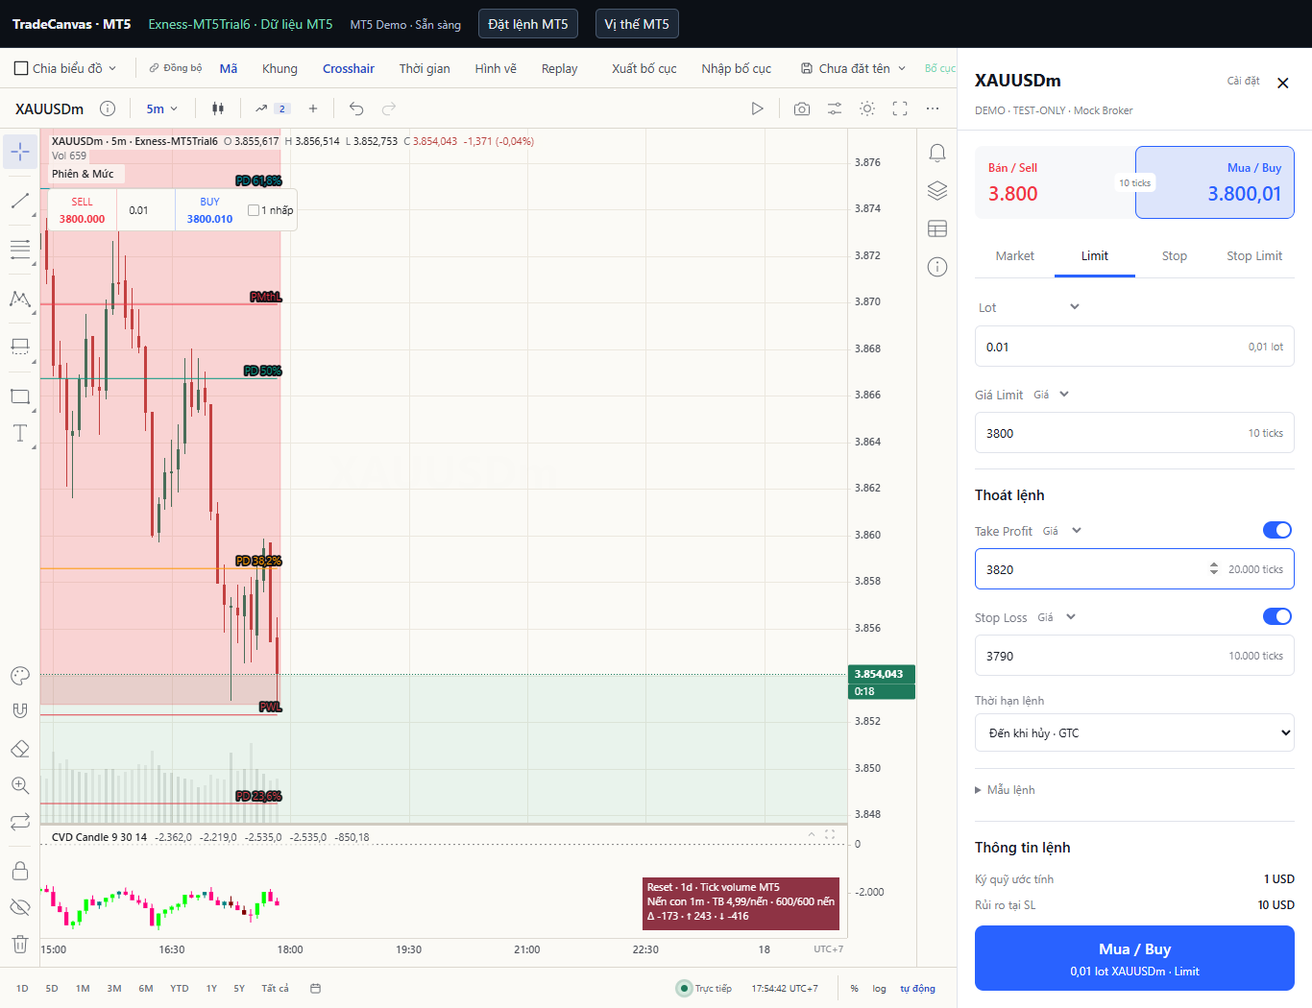
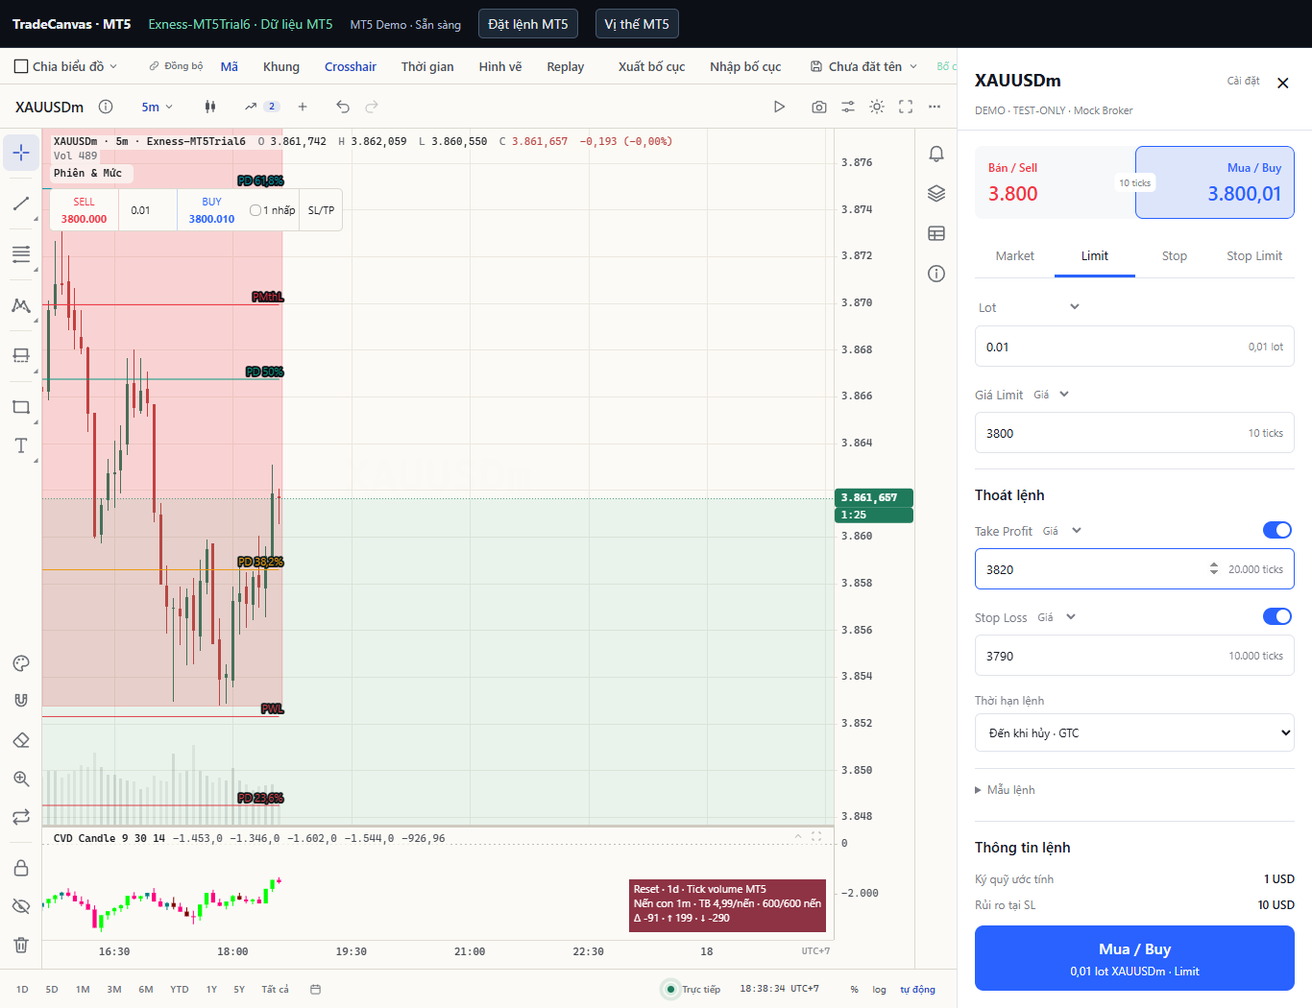
fix: persist MT5 stop edits and preserve chart tool gestures

diff --git a/examples/mt5/mt5-trading.js b/examples/mt5/mt5-trading.js
@@ -34,8 +34,14 @@ export function createMt5Trading(getActiveWidget) {
   let state = null, timer, refreshing = null, busy = false, reviewOpen = false;
   let connected = false, message = '', armed = false, armedAccount = '', projection = null, syncingDrawing = false;
   const quickLots = new Map();
+  const bracketModes = new WeakMap();
   const adapters = new Set();
   const badge = element('span', 'MT5: đang kết nối…', { id: 'mt5-trading-status', role: 'status' });
+  const failure = element('div', null, { id: 'mt5-trading-error', role: 'alert' });
+  const failureText = element('span');
+  failure.hidden = true;
+  failure.append(failureText, button('Đóng', () => { failure.hidden = true; }));
+  document.querySelector('header').append(failure);
   const accountPanel = dialog('Tài khoản và lệnh MT5', false);
   accountPanel.id = 'mt5-account';
   const summary = element('p');
@@ -94,6 +100,9 @@ export function createMt5Trading(getActiveWidget) {
   function report(error) {
     message = error?.message || String(error);
     badge.textContent = `MT5: ${message}`;
+    // Quote polling must not erase a rejected edit before the user sees it.
+    failureText.textContent = message;
+    failure.hidden = false;
     render();
   }
 
@@ -102,7 +111,8 @@ export function createMt5Trading(getActiveWidget) {
     render();
   }
 
-  async function refresh() {
+  async function refresh(fresh = false) {
+    if (fresh && refreshing) await refreshing;
     if (refreshing) return refreshing;
     if (!key) return;
     refreshing = (async () => {
@@ -219,7 +229,8 @@ export function createMt5Trading(getActiveWidget) {
     if (!quote || !connected) { report(new Error('Chưa có dữ liệu giao dịch cho mã này.')); return; }
     if (!ticket.open(owner, { quantity: quickLots.get(symbol) || quote.min, ...initial })) return;
     projection?.destroy();
-    projection = orderProjection(owner, ticket.read, (field, value) => ticket.change(field, value, 'projection'), ticket.submit, ticket.close);
+    projection = orderProjection(owner, ticket.read, (field, value) => ticket.change(field, value, 'projection'), ticket.submit, ticket.close,
+      () => bracketModes.get(owner)?.active);
   }
 
   function editPosition(row) {
@@ -267,7 +278,7 @@ export function createMt5Trading(getActiveWidget) {
         await api('check', command);
         const result = await api('execute', command);
         message = result.partial ? 'MT5 khớp một phần. Kiểm tra khối lượng còn lại.' : 'MT5 đã tiếp nhận thao tác.';
-        await refresh(); return result;
+        await refresh(true); return result;
       } catch (error) {
         message = `${error.message} Kiểm tra Vị thế MT5 trước khi tạo yêu cầu mới.`;
         throw new Error(message);
@@ -299,7 +310,7 @@ export function createMt5Trading(getActiveWidget) {
         try {
           result = await api('execute', command);
           message = result.partial ? 'MT5 khớp một phần. Kiểm tra khối lượng còn lại trong Vị thế MT5.' : 'MT5 đã tiếp nhận thao tác.';
-          await refresh();
+          await refresh(true);
           modal.close();
         } catch (error) {
           // Never replay an execute call automatically: the terminal may already have accepted it.
@@ -320,6 +331,8 @@ export function createMt5Trading(getActiveWidget) {
     const listeners = new Map();
     let disposed = false;
     const chart = widget.getChart();
+    const mode = { active: false, account: state?.account.id, symbol: widget.getSymbol() };
+    bracketModes.set(widget, mode);
     const bar = element('div', null, { class: 'mt5-quick-trade', 'aria-label': 'Giao dịch nhanh MT5' });
     const quickSell = button('', () => quickMarket('sell'));
     const quickBuy = button('', () => quickMarket('buy'));
@@ -329,7 +342,18 @@ export function createMt5Trading(getActiveWidget) {
     const armedLabel = element('label', '1 nhấp');
     const armedInput = element('input', null, { type: 'checkbox', 'aria-label': 'One-click trading trên chart' });
     armedInput.addEventListener('change', () => setOneClick(armedInput.checked));
-    armedLabel.prepend(armedInput); bar.append(quickSell, lots, quickBuy, armedLabel);
+    const bracketButton = button('SL/TP', () => setBracketMode(!mode.active));
+    bracketButton.className = 'mt5-bracket-mode';
+    bracketButton.setAttribute('aria-label', 'Kéo SL/TP từ Entry');
+    bracketButton.title = 'Bật: kéo từ Entry để đặt/đổi SL hoặc TP. Tắt: kéo Entry dời cả bộ. Esc để tắt.';
+    const toolActive = () => Boolean(chart.getDrawingTool() || chart.isEraserMode() || chart.isZoomAreaMode());
+    function setBracketMode(value) { mode.active = value && !toolActive(); bracketButton.setAttribute('aria-pressed', String(mode.active)); }
+    function resetBracketMode() { setBracketMode(false); bracketButton.disabled = toolActive(); }
+    function escapeBracketMode(event) { if (event.key === 'Escape') resetBracketMode(); }
+    chart.on('drawingToolChange', resetBracketMode); chart.on('toolModeChange', resetBracketMode);
+    window.addEventListener('keydown', escapeBracketMode);
+    resetBracketMode();
+    armedLabel.prepend(armedInput); bar.append(quickSell, lots, quickBuy, armedLabel, bracketButton);
     widget.chartContainer.append(bar);
     const pendingStops = pendingStopHandles(widget, () => ({ orders: state?.orders.filter(row => row.symbol === widget.getSymbol()) || [],
       positions: state?.positions.filter(row => row.symbol === widget.getSymbol()) || [],
@@ -345,7 +369,7 @@ export function createMt5Trading(getActiveWidget) {
         if (row.takeProfit != null) intent.takeProfit = moved.takeProfit;
       } else intent[field] = moved[field];
       return review('modifyOrder', intent, row.symbol, accountId).catch(report);
-    }, () => busy || reviewOpen, activate);
+    }, () => busy || reviewOpen, activate, () => mode.active);
     lots.addEventListener('input', () => {
       const symbol = widget.getSymbol(); quickLots.set(symbol, Number(lots.value));
       try { sessionStorage.setItem(`mt5:quick-lots:${state?.account.id}:${symbol}`, lots.value); } catch { /* Keep the visible value. */ }
@@ -376,6 +400,9 @@ export function createMt5Trading(getActiveWidget) {
       publish() {
         if (disposed) return;
         const symbol = adapter.symbol(), q = state?.quotes[symbol];
+        if (mode.account !== state?.account.id || mode.symbol !== symbol) {
+          mode.account = state?.account.id; mode.symbol = symbol; resetBracketMode();
+        }
         if (q) {
           if (!quickLots.has(symbol)) {
             const saved = Number(sessionStorage.getItem(`mt5:quick-lots:${state.account.id}:${symbol}`));
@@ -415,6 +442,17 @@ export function createMt5Trading(getActiveWidget) {
     };
     chart.setTradingConfig({ positionLabel: '{side} {qty} lot · {entry}', lineButtons: { reverse: false, trailStop: false } });
     chart.connectExecution(adapter);
+    // The native trading handler precedes drawing placement in 2.x. Let the
+    // existing tool own this press, then restore trading before the next paint.
+    // Listen to mousedown too: the chart's mouse handler follows pointerdown.
+    function preserveToolPress(event) {
+      if (event.button != null && event.button !== 0) return;
+      if (!toolActive() && !event.shiftKey && !event.ctrlKey && !event.metaKey && !event.altKey) return;
+      chart.setTradingConfig({ enabled: false });
+      setTimeout(() => { if (!disposed) chart.setTradingConfig({ enabled: true }); }, 0);
+    }
+    widget.chartContainer.addEventListener('mousedown', preserveToolPress, true);
+    widget.chartContainer.addEventListener('touchstart', preserveToolPress, true);
     const onError = event => report(event.payload?.cause || event.payload?.message || 'Lỗi giao dịch MT5.');
     chart.on('executionError', onError);
     const drawingUpdate = event => {
@@ -430,6 +468,10 @@ export function createMt5Trading(getActiveWidget) {
     return () => {
       if (ticket.read().widget === widget) ticket.close(true);
       chart.off('executionError', onError); chart.off('drawingUpdate', drawingUpdate); chart.off('drawingRemove', drawingRemove); chart.off('resize', positionBar);
+      chart.off('drawingToolChange', resetBracketMode); chart.off('toolModeChange', resetBracketMode);
+      window.removeEventListener('keydown', escapeBracketMode); bracketModes.delete(widget);
+      widget.chartContainer.removeEventListener('mousedown', preserveToolPress, true);
+      widget.chartContainer.removeEventListener('touchstart', preserveToolPress, true);
       pendingStops.destroy(); bar.remove(); chart.disconnectExecution();
     };
   }

diff --git a/examples/mt5/order-gestures.js b/examples/mt5/order-gestures.js
@@ -9,6 +9,8 @@ export function tradeGestures(widget, options) {
   const controls = new Map();
   let frame, timer, stopped = false, drag = null;
   const names = { price: 'Entry', stopPrice: 'Stop', stopLoss: 'SL', takeProfit: 'TP' };
+  const toolActive = () => Boolean(chart.getDrawingTool() || chart.isEraserMode() || chart.isZoomAreaMode());
+  const reserved = event => event.shiftKey || event.ctrlKey || event.metaKey || event.altKey || toolActive();
   function geometry(event, quote) {
     const bounds = host.getBoundingClientRect(), viewport = chart.viewport.getState(), rect = viewport.chartRect;
     const x = event.clientX - bounds.left, y = event.clientY - bounds.top;
@@ -16,7 +18,7 @@ export function tradeGestures(widget, options) {
       price: roundPrice(yToPrice(Math.max(rect.y, Math.min(rect.y + rect.height, y)), viewport), quote) };
   }
   function begin(event, target, field) {
-    if (event.button !== 0) return;
+    if (event.button !== 0 || reserved(event)) return;
     event.preventDefault(); event.stopImmediatePropagation();
     if (options.disabled?.() || drag) return;
     options.activate?.();
@@ -25,13 +27,13 @@ export function tradeGestures(widget, options) {
     if (document.activeElement instanceof HTMLElement) document.activeElement.blur();
     const current = options.read();
     drag = { target: { ...target, row: { ...target.row } }, field,
-      bracket: field === 'price' && event.shiftKey, pointer: event.pointerId,
+      bracket: field === 'price' && options.bracketMode?.(), pointer: event.pointerId,
       account: current.accountId, quote: current.quote, entry: target.row.price ?? target.row.entryPrice,
       price: target.row[field] ?? target.row.entryPrice, startY: event.clientY, moved: false, finished: false };
     host.setPointerCapture(event.pointerId);
   }
   function down(event) {
-    if (event.button !== 0 || event.ctrlKey || event.metaKey || event.altKey || !host.contains(event.target)) return;
+    if (event.button !== 0 || reserved(event) || !host.contains(event.target)) return;
     const owned = [...controls.values()].find(value => value.tag === event.target || value.tag.contains(event.target));
     if (owned) { begin(event, owned.target, owned.field); return; }
     if (event.target.closest('button,input,select,textarea')) return;
@@ -39,7 +41,7 @@ export function tradeGestures(widget, options) {
     const point = geometry(event, current.quote); if (!point.inside) return;
     if (!options.draft && current.blockedPrices?.some(price => price > 0 && Math.abs(priceToY(price, point.viewport) - point.y) <= 7)) return;
     const hit = current.targets.flatMap(target => {
-      const fields = [...(target.canMoveEntry || event.shiftKey ? ['price'] : []),
+      const fields = [...(target.canMoveEntry || options.bracketMode?.() ? ['price'] : []),
         ...(target.row.type === 'stopLimit' ? ['stopPrice'] : []), 'stopLoss', 'takeProfit'];
       return fields.flatMap(field => {
         const price = field === 'price' ? target.row.price ?? target.row.entryPrice : target.row[field];
@@ -114,7 +116,7 @@ export function tradeGestures(widget, options) {
     if (!current.targets.length && !controls.size && !options.draft) { layer.hidden = true; timer = setTimeout(render, 100); return; }
     const viewport = chart.viewport.getState(), rect = viewport.chartRect;
     Object.assign(layer.style, { left: `${rect.x}px`, top: `${rect.y}px`, width: `${rect.width}px`, height: `${rect.height}px` });
-    layer.hidden = !current.quote;
+    layer.hidden = !current.quote || toolActive();
     const proposed = preview(), keys = new Set();
     if (proposed && drag.target.kind !== 'draft') options.preview?.(drag.target, proposed.row);
     if (current.quote) for (const target of current.targets) {

diff --git a/examples/mt5/order-ticket.css b/examples/mt5/order-ticket.css
@@ -1,4 +1,7 @@
 #workspace { min-width: 0; min-height: 0; display: grid; grid-template-columns: minmax(0, 1fr); }
+#mt5-trading-error { flex-basis: 100%; display: flex; align-items: center; gap: 12px; padding: 8px 12px; background: #4b2029; color: #fff; border: 1px solid #f23645; border-radius: 5px; }
+#mt5-trading-error[hidden] { display: none; }
+#mt5-trading-error > span { flex: 1; }
 #workspace.has-order-ticket { grid-template-columns: minmax(0, 1fr) 370px; }
 #mt5-ticket {
   --mt5-panel: #131722; --mt5-text: #d1d4dc; --mt5-muted: #9598a1; --mt5-border: #2a2e39;
@@ -83,6 +86,8 @@
 .mt5-quick-trade > button[data-side="sell"] { color: #f23645; border-right: 1px solid #f2364540; }
 .mt5-quick-trade > button[data-side="buy"] { color: #2962ff; border-left: 1px solid #2962ff40; }
 .mt5-quick-trade > button:disabled { opacity: .4; }
+.mt5-quick-trade > .mt5-bracket-mode { min-width: 45px; color: var(--tcw-text, #d1d4dc); border-left: 1px solid var(--tcw-border, #2a2e39); align-content: center; }
+.mt5-quick-trade > .mt5-bracket-mode[aria-pressed="true"] { color: #fff; background: #2962ff; }
 .mt5-quick-trade input[type="number"] { width: 60px; min-width: 0; border: 0; background: transparent; color: var(--tcw-text, #d1d4dc); text-align: center; font: inherit; }
 .mt5-quick-trade label { display: flex; align-items: center; gap: 2px; padding: 0 4px; color: var(--tcw-text, #d1d4dc); white-space: nowrap; }
 .mt5-quick-trade input[type="checkbox"] { width: 12px; height: 12px; accent-color: #2962ff; }

diff --git a/examples/mt5/order-projection.js b/examples/mt5/order-projection.js
@@ -1,8 +1,8 @@
 import { tradeGestures } from './order-gestures.js';
 
-export function orderProjection(widget, read, change, submit, cancel) {
+export function orderProjection(widget, read, change, submit, cancel, bracketMode) {
   return tradeGestures(widget, {
-    draft: true, disabled: () => read().sending, change, submit, cancel,
+    draft: true, disabled: () => read().sending, change, submit, cancel, bracketMode,
     read() {
       const current = read(), draft = current.draft;
       return { quote: current.quote, accountId: current.accountId, quantity: current.estimate?.quantity, sending: current.sending,
@@ -12,10 +12,10 @@ export function orderProjection(widget, read, change, submit, cancel) {
   });
 }
 
-export function pendingStopHandles(widget, read, complete, disabled, activate) {
+export function pendingStopHandles(widget, read, complete, disabled, activate, bracketMode) {
   const chart = widget.getChart();
   return tradeGestures(widget, {
-    disabled, activate,
+    disabled, activate, bracketMode,
     read() {
       const current = read();
       return { quote: current.quote, accountId: current.accountId, blockedPrices: current.draftPrices,

diff --git a/examples/mt5/order-ticket.js b/examples/mt5/order-ticket.js
@@ -98,7 +98,7 @@ export function createOrderTicket({ account, quoteFor, estimate: calculate, send
     const row = node('div'); const value = node('strong'); row.append(node('span', label), value); receipt.append(row); amounts.set(id, value);
   }
   const hint = node('p', null, { class: 'order-ticket-muted' });
-  hint.textContent = 'Shift + kéo Entry để đặt/đổi SL hoặc TP. Kéo Entry thường dời cả bộ và giữ R:R. Ước tính MT5 chưa gồm phí, swap và trượt giá.';
+  hint.textContent = 'Bật SL/TP trên chart rồi kéo từ Entry để đặt/đổi mức. Tắt nút để kéo Entry dời cả bộ và giữ R:R. Kéo trực tiếp SL/TP để đổi riêng mức đó. Ước tính chưa gồm phí, swap và trượt giá.';
   const issue = node('p', null, { class: 'order-ticket-error', role: 'status' });
   const permission = node('p', null, { class: 'order-ticket-warning' });
   const submitButton = node('button', null, { type: 'submit', class: 'order-ticket-submit' });

diff --git a/examples/mt5/README.md b/examples/mt5/README.md
@@ -25,7 +25,7 @@ The launcher prefers `.venv`; an existing Codex Python runtime or `python` on PA
 - Choose quantity in **lots**, account-currency value, percent of balance, account-currency risk or percent-of-balance risk. MT5 `order_calc_profit` and `order_calc_margin` provide account-currency estimates. Risk sizing requires an SL and rounds volume down to the broker's step. Estimates exclude commission, swap and slippage; margin estimates do not net the current positions.
 - Right-click a **Long/Short Position** drawing and choose **Tạo lệnh giới hạn MT5 từ vị thế…** to copy Entry, SL, TP, side and the risk mode. The order draft and the linked drawing update each other. The drawing tool's abstract quantity is never interpreted as broker lots.
 - Right-click the chart or use the price-axis plus menu to prepare Buy/Sell Limit, Stop or Stop Limit orders at the selected price.
-- **Shift + drag Entry** pulls out SL on the loss side or TP on the profit side. Repeat it to replace that level. A normal Entry drag moves SL/TP by the same price difference and preserves their distances and reward/risk ratio; Stop Limit also moves its activation price. Drag an SL/TP line directly without Shift to change only that exit. The same gestures work on a client-only draft and on an already placed pending order; Shift can also add exits to an open position. A filled position's entry price stays fixed.
+- **SL/TP mode**: turn on the chart's **SL/TP** button, then drag Entry to pull out SL on the loss side or TP on the profit side. Repeat to replace that level. With the button off, an Entry drag moves SL/TP by the same price difference and preserves their distances and reward/risk ratio; Stop Limit also moves its activation price. Drag an SL/TP line directly in either mode to change only that exit. These gestures work on a client-only draft and an already placed pending order; SL/TP mode can also add exits to an open position. A filled position's entry price stays fixed. Escape, a drawing/eraser/zoom tool, account or symbol changes reset the mode; it is per chart and never persisted. Shift keeps measurement/angle constraints, Ctrl/Meta keeps drawing copy/selection and Alt keeps the pinned OHLC tooltip.
 - **Vị thế MT5** shows the current terminal account, broker-reported P&L, positions and pending orders across symbols. Use it to modify SL/TP, modify a pending order's price, cancel an order or close a full position. Chart order/position lines also route changes through this connection.
 - **One-click trading** is off by default. The chart's red Sell / lot input / blue Buy controls open the ticket while it is off. Enabling **1 nhấp** on the chart or the ticket's settings makes trade buttons and completed live-order drags submit immediately, including modify/cancel/close actions. The choice is per account and browser tab, retained on reload, and disarmed if the account changes. Draft edits and drawing operations never submit on their own.
 - Every submission still calls MT5 `order_check` and verifies the account again immediately before `order_send`. With One-click off, the exact account, symbol, lots and action appear for review; **Gửi tới MT5** submits it. There is no automatic retry after a send failure. Check the terminal before creating another request if a result is uncertain.
@@ -62,6 +62,6 @@ Start an isolated test server on 8773 with `bridge.py --host 127.0.0.1 --port 87
 
 ## Sources and notices
 
-The application uses published `@tradecanvas/chart@2.12.0`. Its order UI is an independent implementation based on TradingView's public [Order Ticket documentation](https://www.tradingview.com/charting-library-docs/latest/trading_terminal/order-ticket/) and [order-projection behavior](https://www.tradingview.com/support/solutions/43000736178-chart-trading-order-projection/). The [Lightweight Charts source](https://github.com/tradingview/lightweight-charts/tree/c29c51e1e5bc61981da5832c97797cb8283d120f) was inspected; it is a chart renderer and does not supply this ticket. No proprietary TradingView Trading Platform source is included.
+The application uses published `@tradecanvas/chart@2.13.1`. Its order UI is an independent implementation based on TradingView's public [Order Ticket documentation](https://www.tradingview.com/charting-library-docs/latest/trading_terminal/order-ticket/) and [order-projection behavior](https://www.tradingview.com/support/solutions/43000736178-chart-trading-order-projection/). The [Lightweight Charts source](https://github.com/tradingview/lightweight-charts/tree/c29c51e1e5bc61981da5832c97797cb8283d120f) was inspected; it is a chart renderer and does not supply this ticket. No proprietary TradingView Trading Platform source is included.
 
 `cvd.js` and `cvd_volume.py` retain their MPL 2.0 notices and attribution to TradingView's CVD Candle script. `session-levels.js` retains the attribution to Texmoonbeam's Pine indicator supplied for the port. The indicator ports are JavaScript/Python implementations over MT5 data, not a Pine Script runtime. Broker tick-volume CVD is an estimate from quote direction, not exchange-provided bid/ask trade delta.

diff --git a/examples/mt5/VALIDATION.md b/examples/mt5/VALIDATION.md
@@ -1,0 +1,38 @@
+# MT5 workspace validation — 2026-11-17
+
+## Upstream and packages
+
+- Merged `bonguynvan/tradecanvas` main through `e2e047efbc9282410fc14dd837504ece616e8f9b`, with no merge conflicts. Fetched upstream again after the merge and verified it is an ancestor of the workspace branch.
+- Pinned the browser runtime and its core/commons dependencies to the latest published `2.13.1`.
+- Installation used `--ignore-scripts`. `npm audit` reported zero known vulnerabilities; `npm audit signatures` verified registry signatures and attestations for all five installed packages. These checks establish package provenance and known vulnerability status, not an absolute malware guarantee.
+
+## Stop-edit diagnosis
+
+The initial browser regression command was `node --test order-regression.test.cjs`. All three cases failed before the fixes:
+
+1. An MT5 rejection restored the old SL but polling replaced the status message; there was no persistent visible error.
+2. Shift while placing a drawing could modify an order. Both the custom pointer handler and the native trading handler competed with chart tools.
+3. A state read begun before an accepted edit could satisfy the post-edit refresh and restore the old SL. The fixture accepted `3783.361`, but the chart reverted to `3790`.
+
+The post-execution read now waits for any earlier read and starts a new one. A rejected action keeps its error visible until dismissed. The dedicated, per-chart **SL/TP** button replaces the conflicting Shift binding. Reserved modifiers and drawing/eraser/zoom tools retain their native gestures. The native trading handler is disabled only during a protected press and restored after event dispatch.
+
+With **SL/TP** on, dragging Entry creates or replaces the exit on that side. With it off, dragging a pending Entry translates the bracket and preserves distances/R:R. A direct SL/TP drag changes only that exit in either mode. Filled Entry prices remain fixed. Escape, selecting a tool, changing account or symbol resets the mode; it is never saved or restored as armed.
+
+## Checks
+
+- 23 Python broker/HTTP/layout tests, with a fake broker replacing `order_send`.
+- 9 unit tests for order geometry, CVD backfill and Fibonacci rendering/history.
+- 11 mocked trading browser tests, including rejection/rollback, stale polling, modifier conflicts, pending and filled orders, sell-side exits, Stop Limit, review/one-click modes and account changes. The visual case checks 18 combinations of width, theme and look.
+- 4 layout/crosshair browser tests, including timezone restoration, import/export, parked chart cells and independent LAN clients with concurrent writes.
+- Sessions compatibility tests passed for settings/dropdowns, independent instances, separate/merged CVD panes, period levels and Fibonacci selection. These legacy tests require an empty test layout store for each file. Running them against one shared store exposed fixture contamination; the pane test also needed its search selector scoped to the searchbox after the quick-lot input was added.
+
+Trading browser fixtures intercept every trading route, and unknown routes abort. No actual broker order was submitted for these checks. The current terminal reports Algo Trading disabled; live trade edits require the user to enable it in MT5. Application startup does not change that terminal setting.
+
+## Workspace skill snapshots
+
+The upstream merge also updated the repository's TradeCanvas skill recipe. The full skill trees before and after the merge were reconstructed from their Git commits into the following timestamped backups, then every file was verified against a SHA-256 manifest:
+
+- `D:/mt5/skill-backups/tradecanvas-20261117-182614-before-upstream-merge` — source `88bdf3e`.
+- `D:/mt5/skill-backups/tradecanvas-20261117-182614-after-upstream-merge` — source `cc93a74`.
+
+The manifests record that these snapshots were reconstructed from Git; earlier backups were retained.
